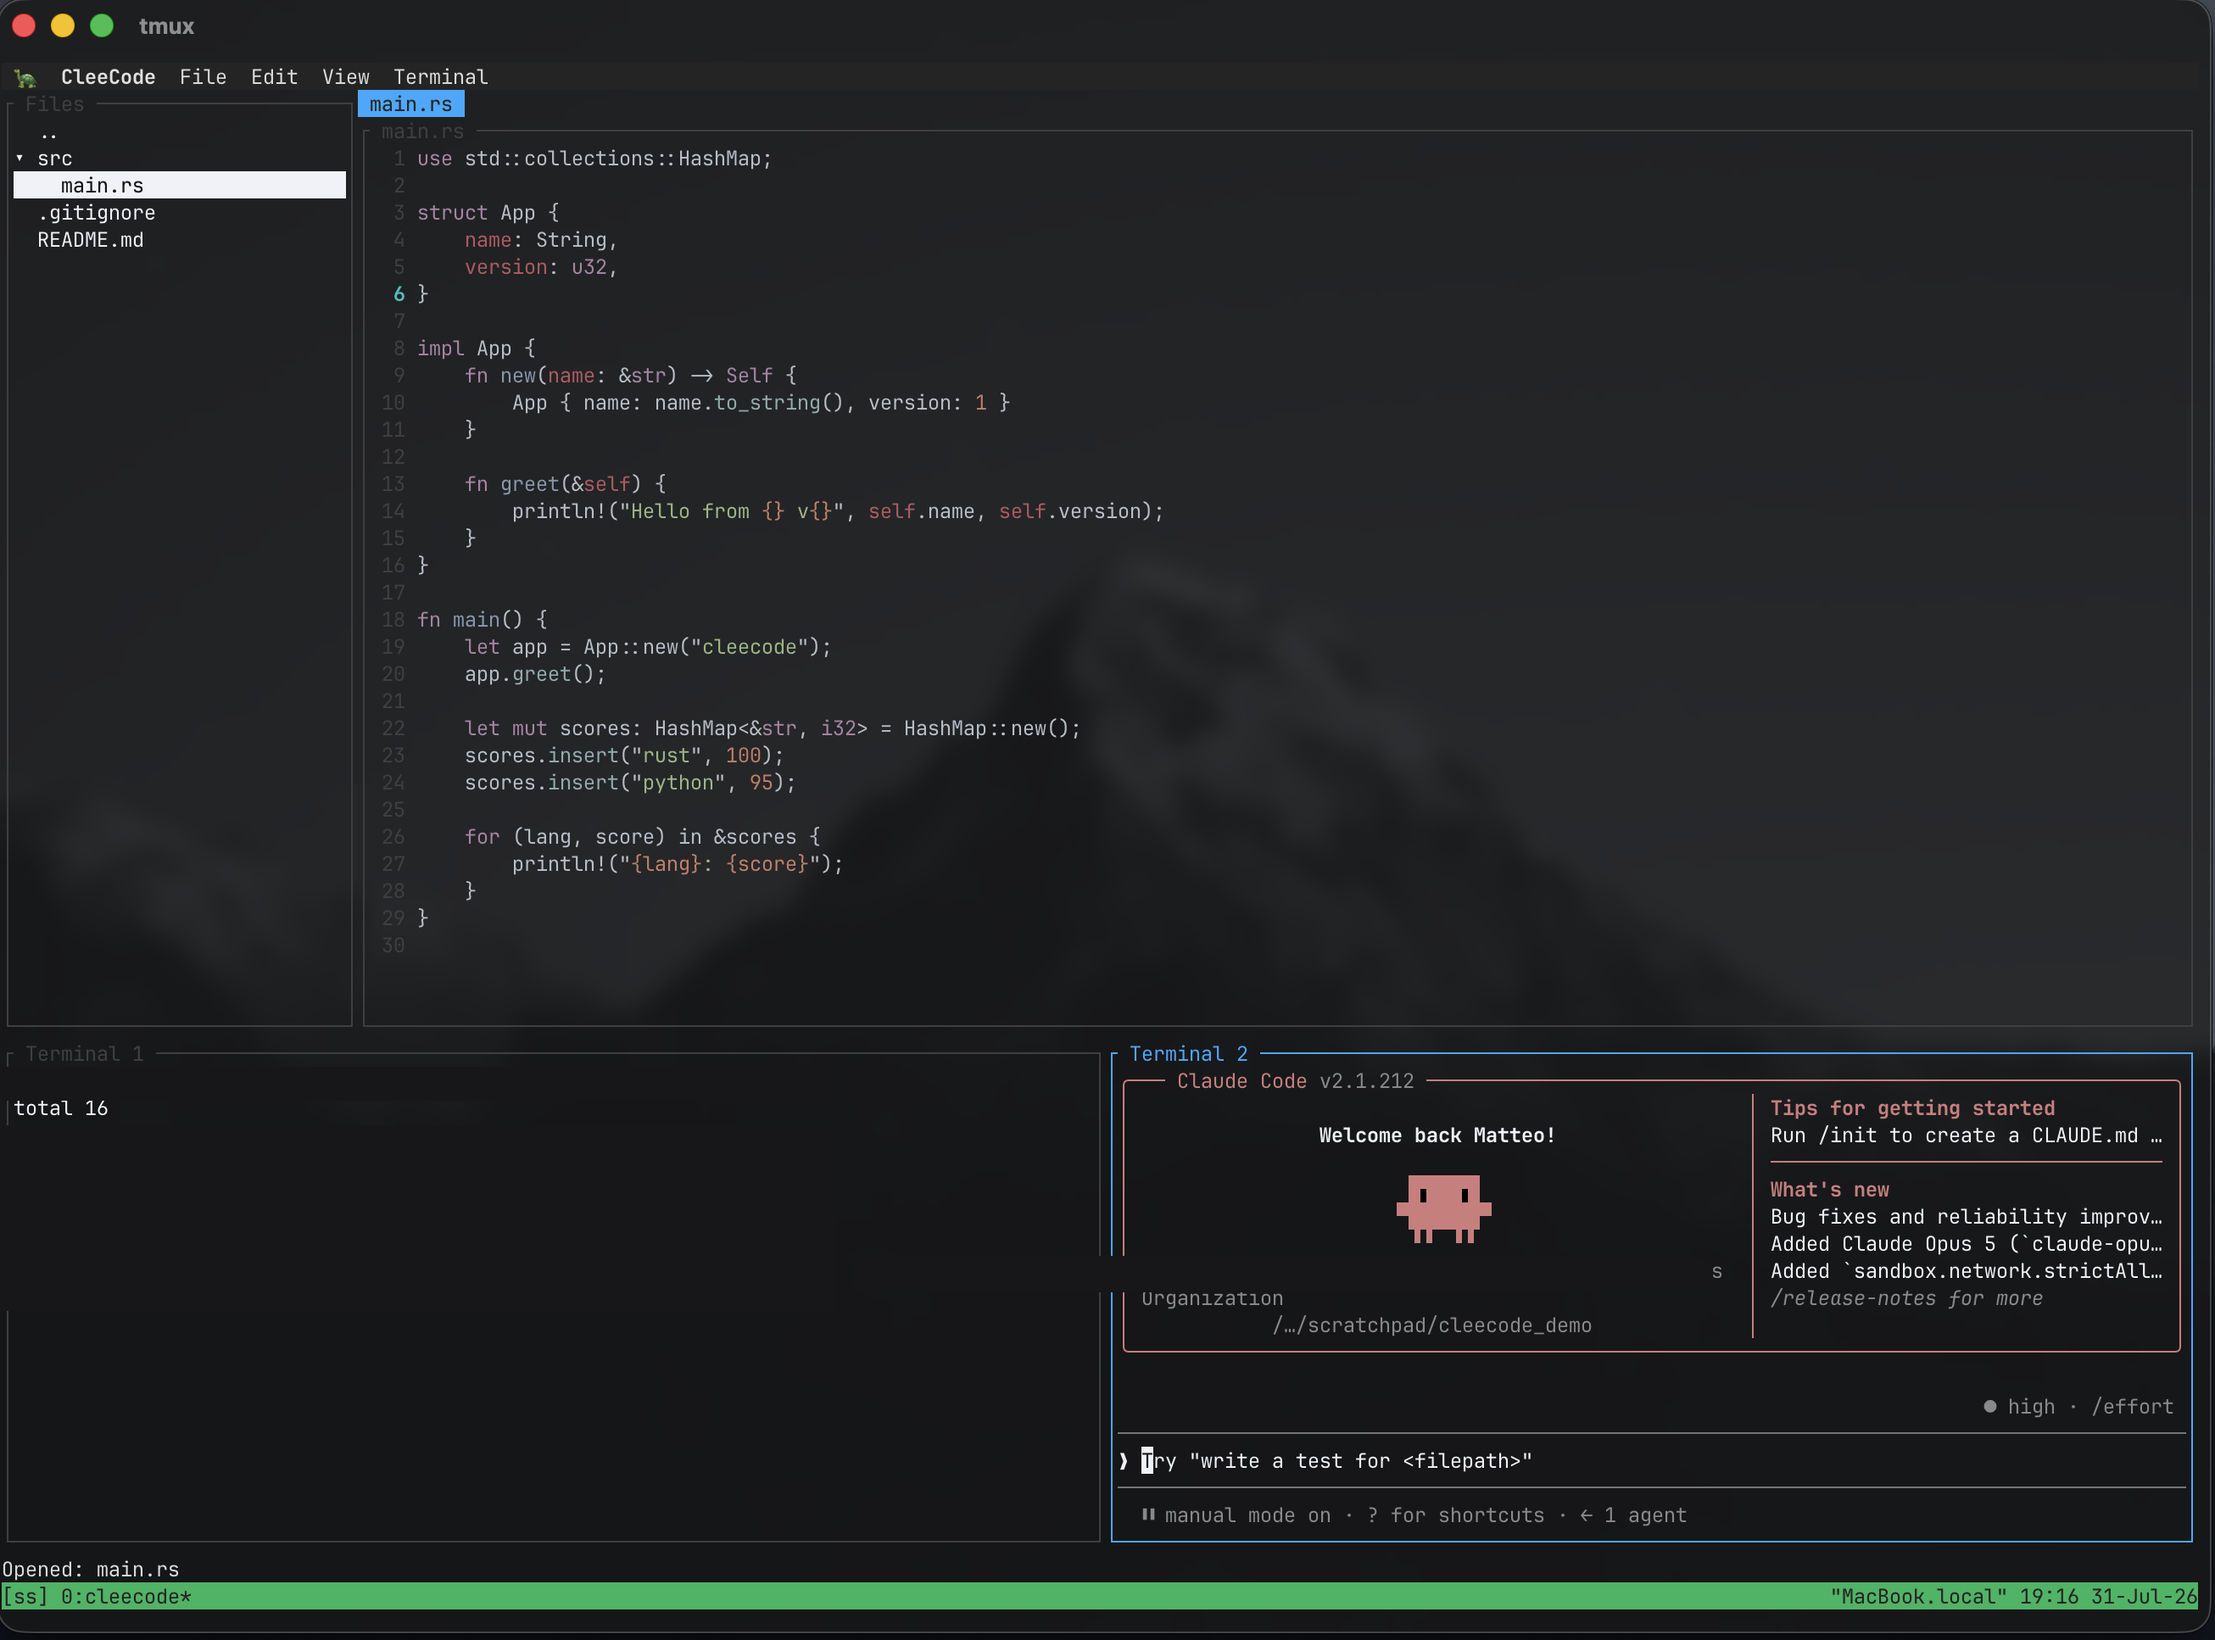
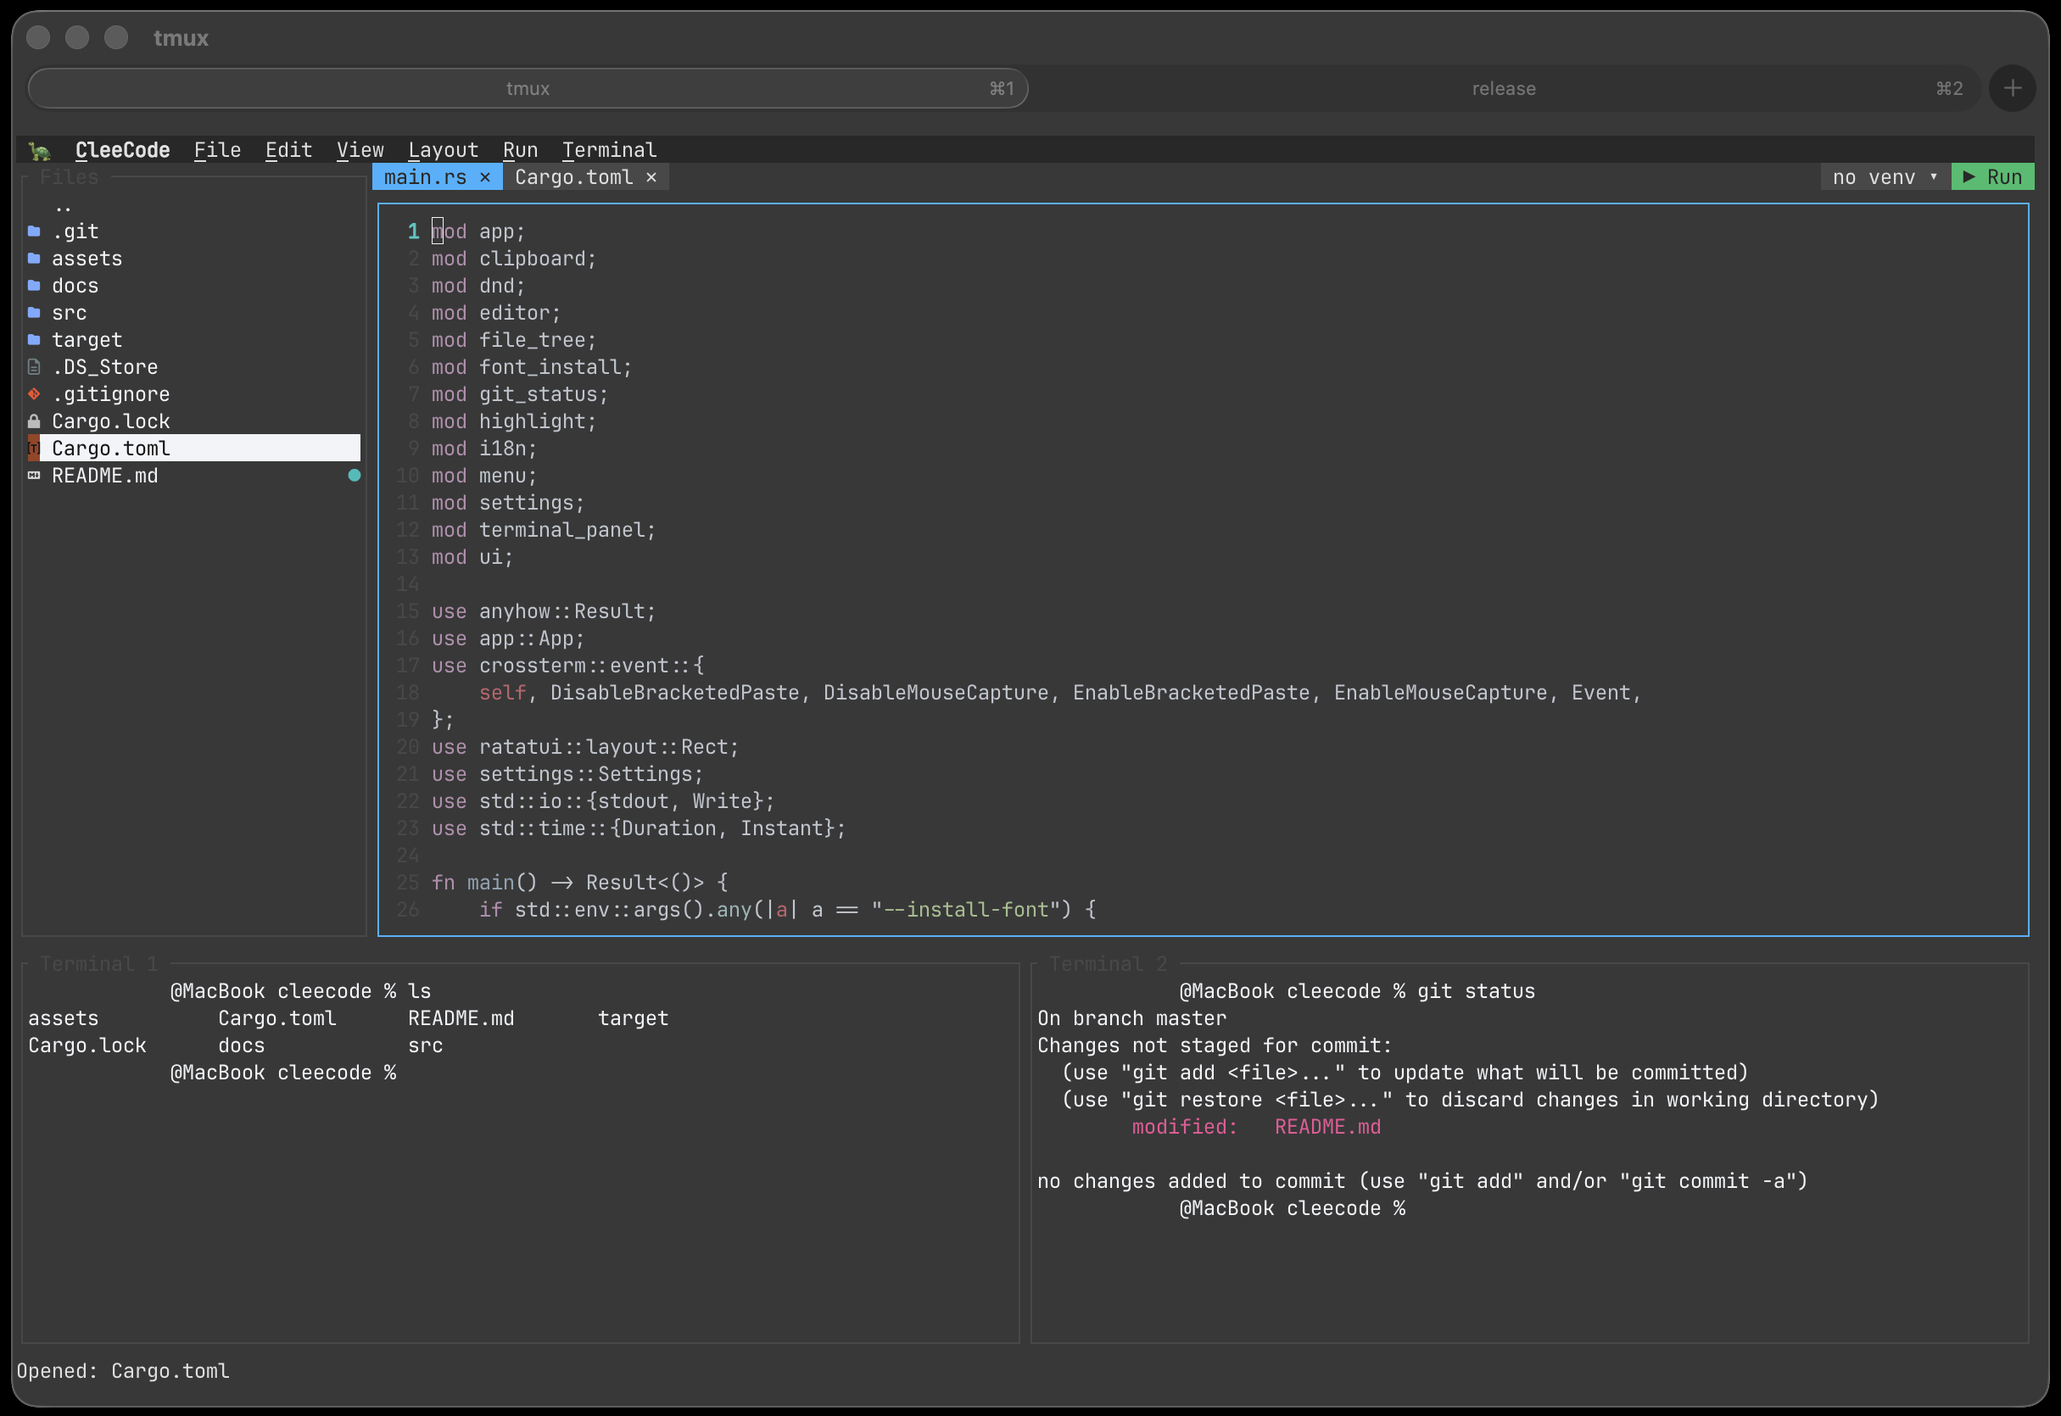
Rewrite the README for the current feature set, with fresh screenshots
Documents everything added this round: split editor, Nerd Font file
icons + git status column, Run button + venv selector, resizable
layout presets, menu mnemonics, workspace persistence, Save All,
hidden-files toggle, and the --install-font helper. Replaces the
stale main/menu screenshots and adds one for the split view; drops
settings.png since the README no longer references it.

diff --git a/README.md b/README.md
@@ -2,57 +2,87 @@
 
 A terminal IDE written in Rust: a `micro`-style editor with a file tree sidebar,
 integrated terminals, syntax highlighting, and a classic drop-down menu bar —
-all inside your terminal.
+all inside your terminal. No mouse required, but it's there if you want it.
 
 ![CleeCode main view](docs/screenshots/main.png)
 
 ## Features
 
-- **Editor** — syntax highlighting (via [syntect](https://github.com/trevorfulton/syntect)) for all major languages, line numbers, multi-file tabs, text selection, copy/cut/paste with the real system clipboard, indent/outdent, auto-indent, word wrap, whitespace display
-- **File tree sidebar** — navigate with arrows, expand/collapse with `→`/`←`, `Enter` on a folder makes it the new tree root, `..` walks back up, `Delete` asks for confirmation before removing a file
+- **Editor** — syntax highlighting (via [syntect](https://github.com/trevorfulton/syntect)), line numbers, multi-file tabs with a click-to-close `×`, mouse and keyboard text selection, copy/cut/paste with the real system clipboard, indent/outdent, auto-indent, word wrap, whitespace display, code folding (`F7`)
+- **Split editor** — `Alt+P` or Layout → Split editor divides the editor column into two independent panes, each with its own tab strip; click either pane (or `Alt+Left`/`Alt+Right`) to move focus between them
+- **File tree sidebar** — a Nerd Font icon and color per file type, folder icons, a right-aligned git status dot (modified/added/deleted/renamed/untracked, rolled up to parent folders), live refresh when files change on disk (even from another process), `H` toggles hidden files, double-click or `Enter` opens a file / makes a folder the new root, `..` walks back up, `Delete` asks for confirmation
+- **Run button** — a `▶ Run` button above the editor (also `F10`) pastes a run command for the current file into the first idle terminal; commands are configurable per extension in `settings.toml` (defaults cover Python, Bash, Ruby, Node, Go, PHP, Perl, Octave...)
+- **Venv selector** — next to Run, cycles through Python virtualenvs found at the project root and swaps in that venv's interpreter when running a `.py` file
 - **Multiple terminals** — starts with two side-by-side embedded terminals (real ptys, so `ssh`, `vim`, `claude`, etc. all work); open/close more, auto-clears startup banners, auto-collapses a pane when its shell exits
-- **Menu bar** — a macOS-style `CleeCode` app menu (About / Settings / Quit) plus File / Edit / View / Terminal, all keyboard- and mouse-driven, with shortcuts shown inline
+- **Menu bar** — a macOS-style `CleeCode` app menu (About / Settings / Quit) plus File / Edit / View / Layout / Run / Terminal; `Alt+<letter>` jumps straight to a menu (underlined mnemonic, Borland/Turbo-Vision style), or open with `F9` and type the letter — a fallback that works even when a terminal swallows Alt combos
+- **Resizable workspace layout** — `F8` (arrows to resize) or drag panel borders with the mouse; three built-in presets (Classic, Wide 2-column, Triple 3-column) and a terminal-on-left/right toggle, all persisted across restarts
 - **Settings panel** — line numbers, syntax highlighting, word wrap, tab size, spaces-vs-tabs, whitespace, auto-indent, mouse, language — all live-toggleable
-- **Mouse support** — click to focus any panel, position the cursor, switch tabs, drive every menu and modal
+- **Workspace persistence** — launching with no arguments resumes the last project folder and every file that was open, including which tab was active
+- **Save All** — `Alt+S` saves every dirty file at once, alongside per-file `Ctrl+S`
 - **Drag & drop** — drop a file onto the file tree to copy it in; drop it onto a terminal running an active `ssh` session and CleeCode attempts an `scp` upload
 - **Auto-reload** — picks up external changes to the open file without asking, as long as you have no unsaved edits
 - **English by default**, Italian available in Settings → Language (small `i18n` layer, easy to extend)
 
-![Edit menu with keyboard shortcuts](docs/screenshots/menu.png)
+![Layout and Run menus](docs/screenshots/menu.png)
 
-![Settings panel](docs/screenshots/settings.png)
+![Split editor view](docs/screenshots/split.png)
 
 ## Getting started
 
 ```bash
 cargo build --release
-./target/release/cleecode              # opens the current directory
+./target/release/cleecode              # opens the current directory (or resumes the last workspace)
 ./target/release/cleecode src/main.rs  # opens the current directory with a file pre-opened
 ```
+
+### Nerd Font icons
+
+The file tree's per-file-type icons need a [Nerd Font](https://www.nerdfonts.com/) to
+render as icons instead of blank boxes. CleeCode bundles one (JetBrainsMono Nerd Font
+Mono, SIL OFL) and can install it for you:
+
+```bash
+./target/release/cleecode --install-font
+```
+
+This copies the font into `~/Library/Fonts` and points Ghostty's config at it (if
+present); restart your terminal afterwards. If you use a different terminal, or already
+have a Nerd Font configured, just point your terminal's font setting at it manually.
 
 ## Key bindings
 
 | Key | Action |
 |---|---|
-| `F9` | Open/close the menu bar |
+| `F9` | Open/close the menu bar (then type a letter to jump to a menu) |
+| `Alt+<letter>` | Jump straight to a menu (see the underlined letter) |
 | `F1` / `F2` / `F3` | Focus file tree / editor / terminal |
 | `F4` | Settings |
 | `F5` / `F6` | New / close terminal |
+| `F7` | Fold/unfold the block under the cursor |
+| `F8` | Resize mode (arrows to resize, `Esc`/`Enter` to exit) |
+| `F10` | Run the current file |
+| `Alt+P` | Toggle split editor view |
+| `Alt+Left` / `Alt+Right` | Switch focus between split panes |
+| `Alt+S` | Save all files |
 | `Ctrl+E` / `Ctrl+T` | Toggle sidebar / terminal panel |
+| `H` (sidebar focused) | Toggle hidden files |
 | `Ctrl+S` | Save |
+| `Ctrl+W` / `Ctrl+D` | Close current tab |
 | `Ctrl+Q` | Quit |
 | `Ctrl+C/X/V/A` | Copy / cut / paste / select all (in the editor) |
 | `Tab` / `Shift+Tab` | Indent / outdent |
 | `Ctrl+Left/Right` | Switch editor tab |
 | `Ctrl+PageUp/Down` | Switch terminal |
 
-In the file tree: `↑↓` move, `→` expand, `←` collapse (or jump to parent), `Enter` opens a
-file / makes a folder the new root / walks up via `..`, `Delete` removes a file (with confirmation).
+In the file tree: `↑↓` move, `→` expand, `←` collapse (or jump to parent), `Enter` or a
+double-click opens a file / makes a folder the new root / walks up via `..`, `Delete`
+removes a file (with confirmation), `H` toggles hidden files.
 
 ## Requirements
 
-Built and tested on macOS. The system-clipboard integration (`pbcopy`/`pbpaste`) and the
-`scp`-on-drop feature are macOS-specific niceties; everything else is plain
+Built and tested on macOS. The system-clipboard integration (`pbcopy`/`pbpaste`), the
+`scp`-on-drop feature, and the `--install-font` Ghostty auto-config are macOS-specific
+niceties; everything else is plain
 [ratatui](https://github.com/ratatui/ratatui)/[crossterm](https://github.com/crossterm-rs/crossterm)
 and should build on Linux too.
 
